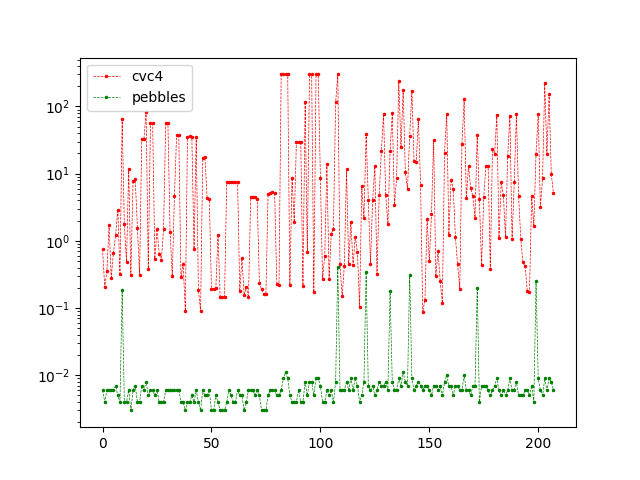
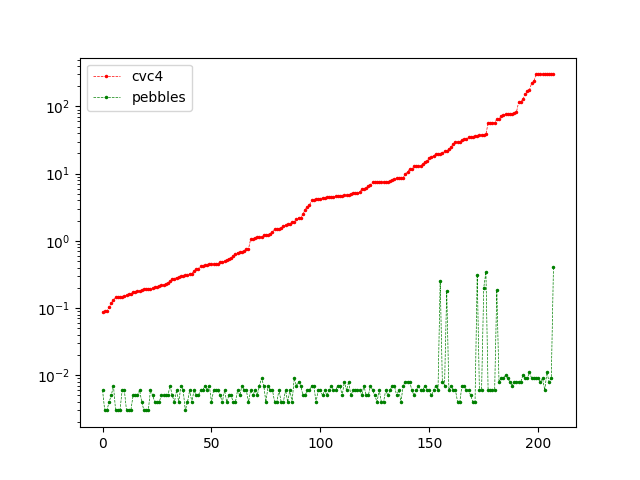
updating graphs

Changed region(s): [[0.1562, 0.125, 0.875, 0.875], [0.1875, 0.6562, 0.2188, 0.75]]

diff --git a/synth/gen_plots.py b/synth/gen_plots.py
@@ -22,15 +22,15 @@ with open('found.txt') as f:
 
 with open('singlethread10.txt') as f:
     lines = f.readlines()
-    pebbles_times_st_random10 = [sum([float(line) for line in lines])] * 16
+    pebbles_times_st_random10 = [sum([float(line) for line in lines])] * 8
 
 with open('multithread10.txt') as f:
     lines = f.readlines()
-    pebbles_times_mt_random10 = [sum([float(line) for line in lines])] * 16
+    pebbles_times_mt_random10 = [sum([float(line) for line in lines])] * 8
 
 with open('gpu_version10.txt') as f:
     lines = f.readlines()
-    pebbles_times_gpu_random10 = [sum([float(line) for line in lines if not line.startswith("Synthesizer")])] * 16
+    pebbles_times_gpu_random10 = [sum([float(line) for line in lines if not line.startswith("Synthesizer")])] * 8
 
 with open('singlethread100.txt') as f:
     lines = f.readlines()
@@ -48,7 +48,7 @@ with open('compareNumThreads10_2.txt') as f:
     lines = f.readlines()
     compare_thread_count_times = [float(line) for line in lines]
 threadTimes = []
-for i in range(16):
+for i in range(8):
     threadTimes.append(sum(compare_thread_count_times[i*10:(i+1)*10]))
 
 # Instead of directly sorting, get an array of what the indices should be to sort cvc4_times
@@ -70,61 +70,85 @@ pebbles_times_solved = pebbles_times[has_solution]
 cvc4_times_no_solution = cvc4_times[np.invert(has_solution)]
 pebbles_times_no_solution = pebbles_times[np.invert(has_solution)]
 
-plt.yscale('log')
-plt.plot(cvc4_times_solved,'o',markersize=2, label="cvc4")
-plt.plot(pebbles_times_solved,'o',markersize=2, label="pebbles")
-plt.ylabel("Execution time in seconds")
-plt.xlabel("SyGuS CrCi problems with solutions")
-plt.title("Log-scale comparison of CVC4 1.8 and Pebbles")
-plt.xticks([], []) # turn off x-ticks
-leg = plt.legend(loc='upper left')
-plt.savefig('cvc4_versus_pebbles_solved.png')
-plt.show()
-
-plt.yscale('log')
-plt.plot(cvc4_times_no_solution,'o',markersize=2, label="cvc4")
-plt.plot(pebbles_times_no_solution,'o',markersize=2, label="pebbles")
-plt.ylabel("Execution time in seconds")
-plt.xlabel("SyGuS CrCi problems with no solution")
-plt.title("Log-scale comparison of CVC4 1.8 and Pebbles")
-plt.xticks([], []) # turn off x-ticks
-leg = plt.legend(loc='upper left')
-plt.savefig('cvc4_versus_pebbles_unsolved.png')
-plt.show()
-
-plt.yscale('log')
-plt.plot(pebbles_times,'o',markersize=2, label="singlethread")
-plt.plot(pebbles_times_mt,'o',markersize=2, label="multithread")
-plt.plot(pebbles_times_gpu,'o', markersize=2, label="gpu")
+ax = plt.gca()
+ax.set_ylim([0, 10])
+plt.plot(cvc4_times,'o',markersize=2, label="cvc4")
+plt.plot(pebbles_times,'o',markersize=2, label="pebbles")
 plt.ylabel("Execution time in seconds")
 plt.xlabel("SyGuS CrCi problems")
-plt.title("Comparison of Pebbles with single thread versus multithread")
+plt.title("Comparison of CVC4 1.8 and Pebbles")
 plt.xticks([], []) # turn off x-ticks
 leg = plt.legend(loc='upper left')
-plt.savefig('single_versus_multi.png')
+plt.savefig('cvc4_versus_pebbles_linear.png')
 plt.show()
 
 plt.yscale('log')
-plt.plot(pebbles_times_st_random,'o', markersize=2, label="singlethread")
-plt.plot(pebbles_times_mt_random,'o', markersize=2, label="multithread")
-plt.plot(pebbles_times_gpu_random,'o', markersize=2, label="gpu")
+plt.plot(cvc4_times,'o',markersize=2, label="cvc4")
+plt.plot(pebbles_times,'o',markersize=2, label="pebbles")
 plt.ylabel("Execution time in seconds")
-plt.xlabel("Random 5 variable truth tables")
-plt.title("Comparison of Pebbles with single thread versus multithread")
+plt.xlabel("SyGuS CrCi problems")
+plt.title("Log-scale comparison of CVC4 1.8 and Pebbles")
 plt.xticks([], []) # turn off x-ticks
 leg = plt.legend(loc='upper left')
-plt.savefig('single_versus_multi_random100.png')
+plt.savefig('cvc4_versus_pebbles_log.png')
 plt.show()
 
-plt.yscale('log')
-plt.plot(pebbles_times_st_random10,'o-',linewidth=1, markersize=2.5, label="singlethread")
-plt.plot(threadTimes,'o-',linewidth=1, markersize=2.5, label="Multithread varying thread count")
-plt.plot(pebbles_times_gpu_random10,'o-',linewidth=1, markersize=2.5, label="gpu")
-#plt.plot(pebbles_times_mt_random10,'o-',linewidth=1, markersize=2.5, label="multithread")
-plt.ylabel("Execution time in seconds (total all random benchmarks)")
-plt.xlabel("Thread count")
-plt.title("Comparison of multithread Pebbles with different thread counts")
-plt.xticks(range(16), range(1,17)) # turn off x-ticks
-leg = plt.legend(loc='upper left')
-plt.savefig('thread_count_comparison.png')
-plt.show()
+# plt.yscale('log')
+# plt.plot(cvc4_times_solved,'o',markersize=2, label="cvc4")
+# plt.plot(pebbles_times_solved,'o',markersize=2, label="pebbles")
+# print(pebbles_times[len(pebbles_times)//2+2],cvc4_times[len(pebbles_times)//2+2])
+# plt.ylabel("Execution time in seconds")
+# plt.xlabel("SyGuS CrCi problems with solutions")
+# plt.title("Log-scale comparison of CVC4 1.8 and Pebbles")
+# plt.xticks([], []) # turn off x-ticks
+# leg = plt.legend(loc='upper left')
+# plt.savefig('cvc4_versus_pebbles_solved.png')
+# plt.show()
+
+# plt.yscale('log')
+# plt.plot(cvc4_times_no_solution,'o',markersize=2, label="cvc4")
+# plt.plot(pebbles_times_no_solution,'o',markersize=2, label="pebbles")
+# plt.ylabel("Execution time in seconds")
+# plt.xlabel("SyGuS CrCi problems with no solution")
+# plt.title("Log-scale comparison of CVC4 1.8 and Pebbles")
+# plt.xticks([], []) # turn off x-ticks
+# leg = plt.legend(loc='upper left')
+# plt.savefig('cvc4_versus_pebbles_unsolved.png')
+# plt.show()
+
+# plt.yscale('log')
+# plt.plot(pebbles_times,'o',markersize=2, label="singlethread")
+# plt.plot(pebbles_times_mt,'o',markersize=2, label="multithread")
+# plt.plot(pebbles_times_gpu,'o', markersize=2, label="gpu")
+# plt.ylabel("Execution time in seconds")
+# plt.xlabel("SyGuS CrCi problems")
+# plt.title("Comparison of Pebbles with single thread versus multithread")
+# plt.xticks([], []) # turn off x-ticks
+# leg = plt.legend(loc='upper left')
+# plt.savefig('single_versus_multi.png')
+# plt.show()
+
+# plt.yscale('log')
+# plt.plot(pebbles_times_st_random,'o', markersize=2, label="singlethread")
+# plt.plot(pebbles_times_mt_random,'o', markersize=2, label="multithread")
+# plt.plot(pebbles_times_gpu_random,'o', markersize=2, label="gpu")
+# plt.ylabel("Execution time in seconds")
+# plt.xlabel("Random 5 variable truth tables")
+# plt.title("Comparison of Pebbles with single thread versus multithread")
+# plt.xticks([], []) # turn off x-ticks
+# leg = plt.legend(loc='upper left')
+# plt.savefig('single_versus_multi_random100.png')
+# plt.show()
+
+#plt.yscale('log')
+# plt.plot(pebbles_times_st_random10,'-',linewidth=1, markersize=2.5, label="singlethread")
+# plt.plot(threadTimes,'o-',linewidth=1, markersize=2.5, label="multithread")
+# plt.plot(pebbles_times_gpu_random10,'-',linewidth=1, markersize=2.5, label="gpu")
+# #plt.plot(pebbles_times_mt_random10,'o-',linewidth=1, markersize=2.5, label="multithread")
+# plt.ylabel("Execution time in seconds (total all random benchmarks)")
+# plt.xlabel("Thread count")
+# plt.title("Comparison of multithread Pebbles with different thread counts")
+# plt.xticks(range(8), range(1,9)) # turn off x-ticks
+# leg = plt.legend(loc='upper right')
+# plt.savefig('thread_count_comparison.png')
+# plt.show()
